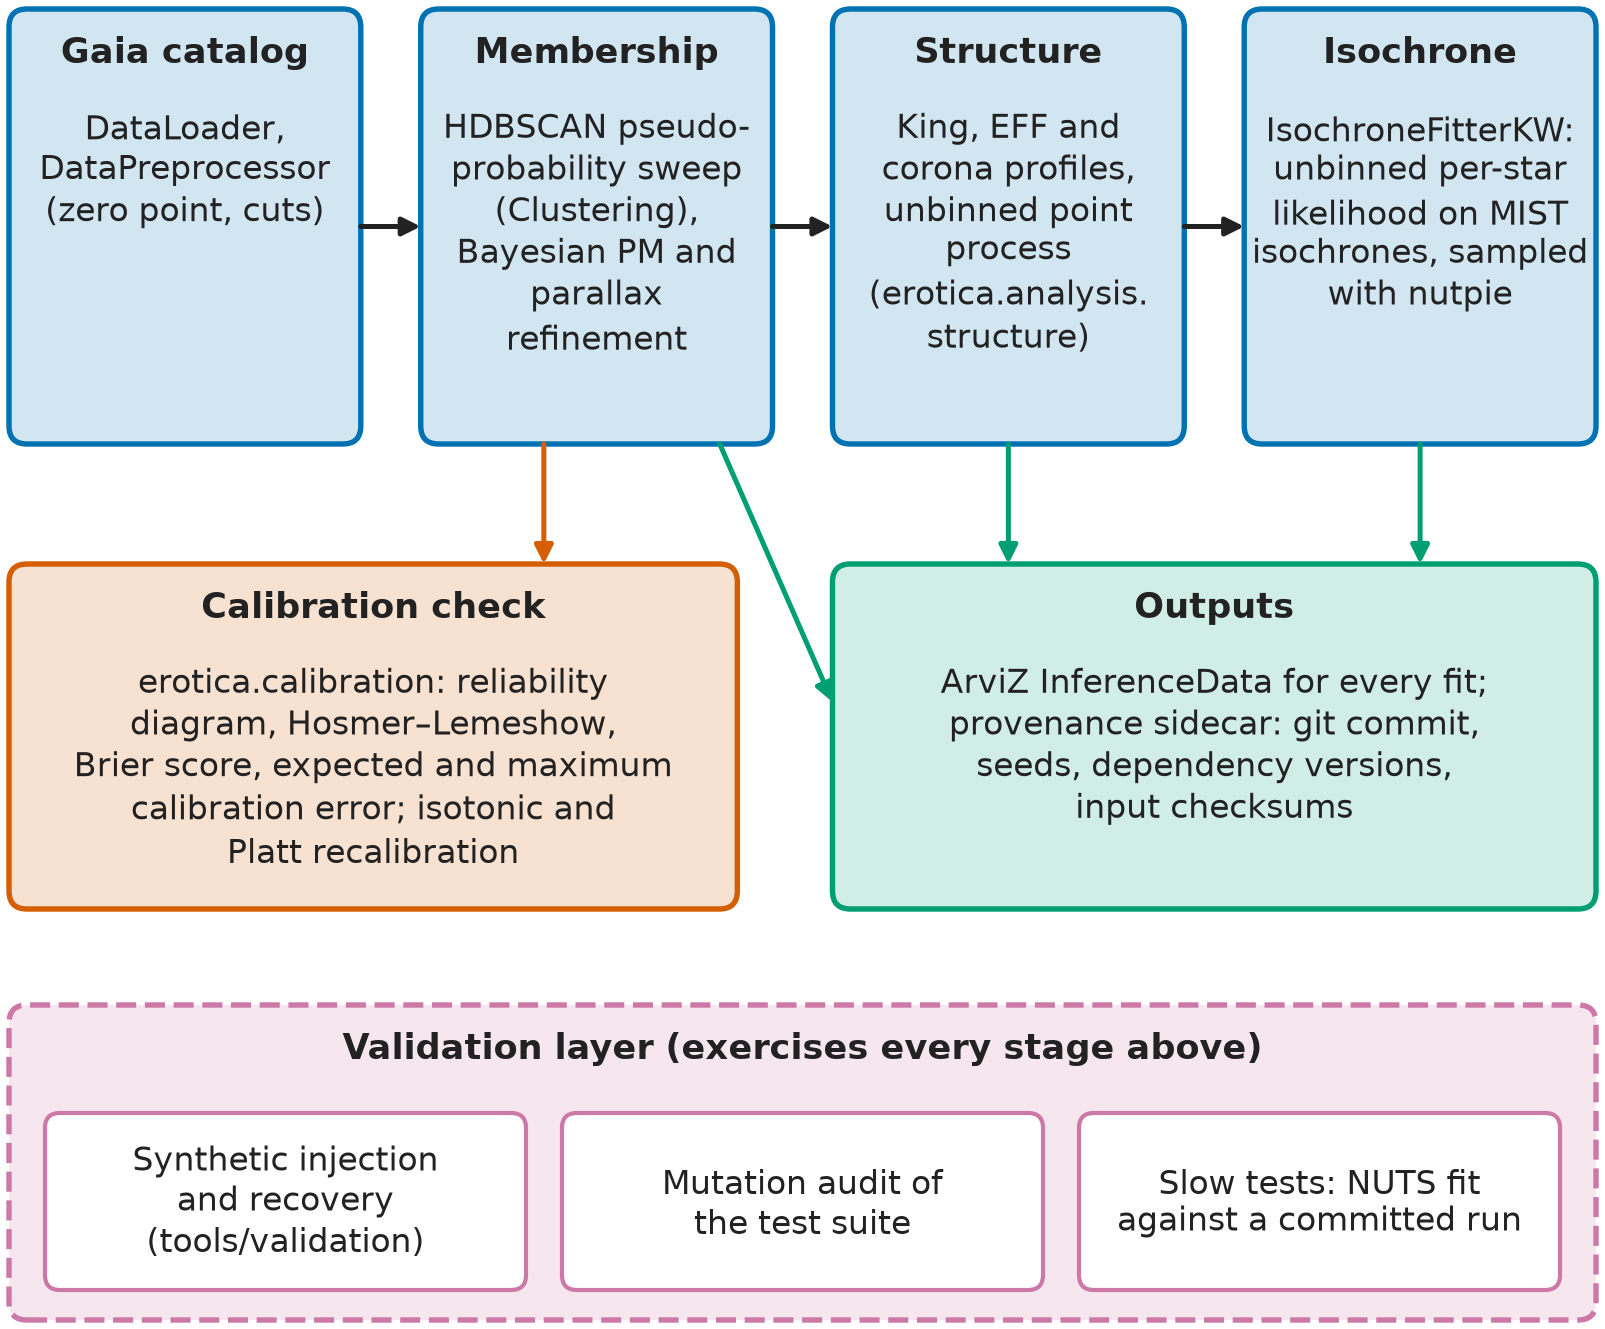
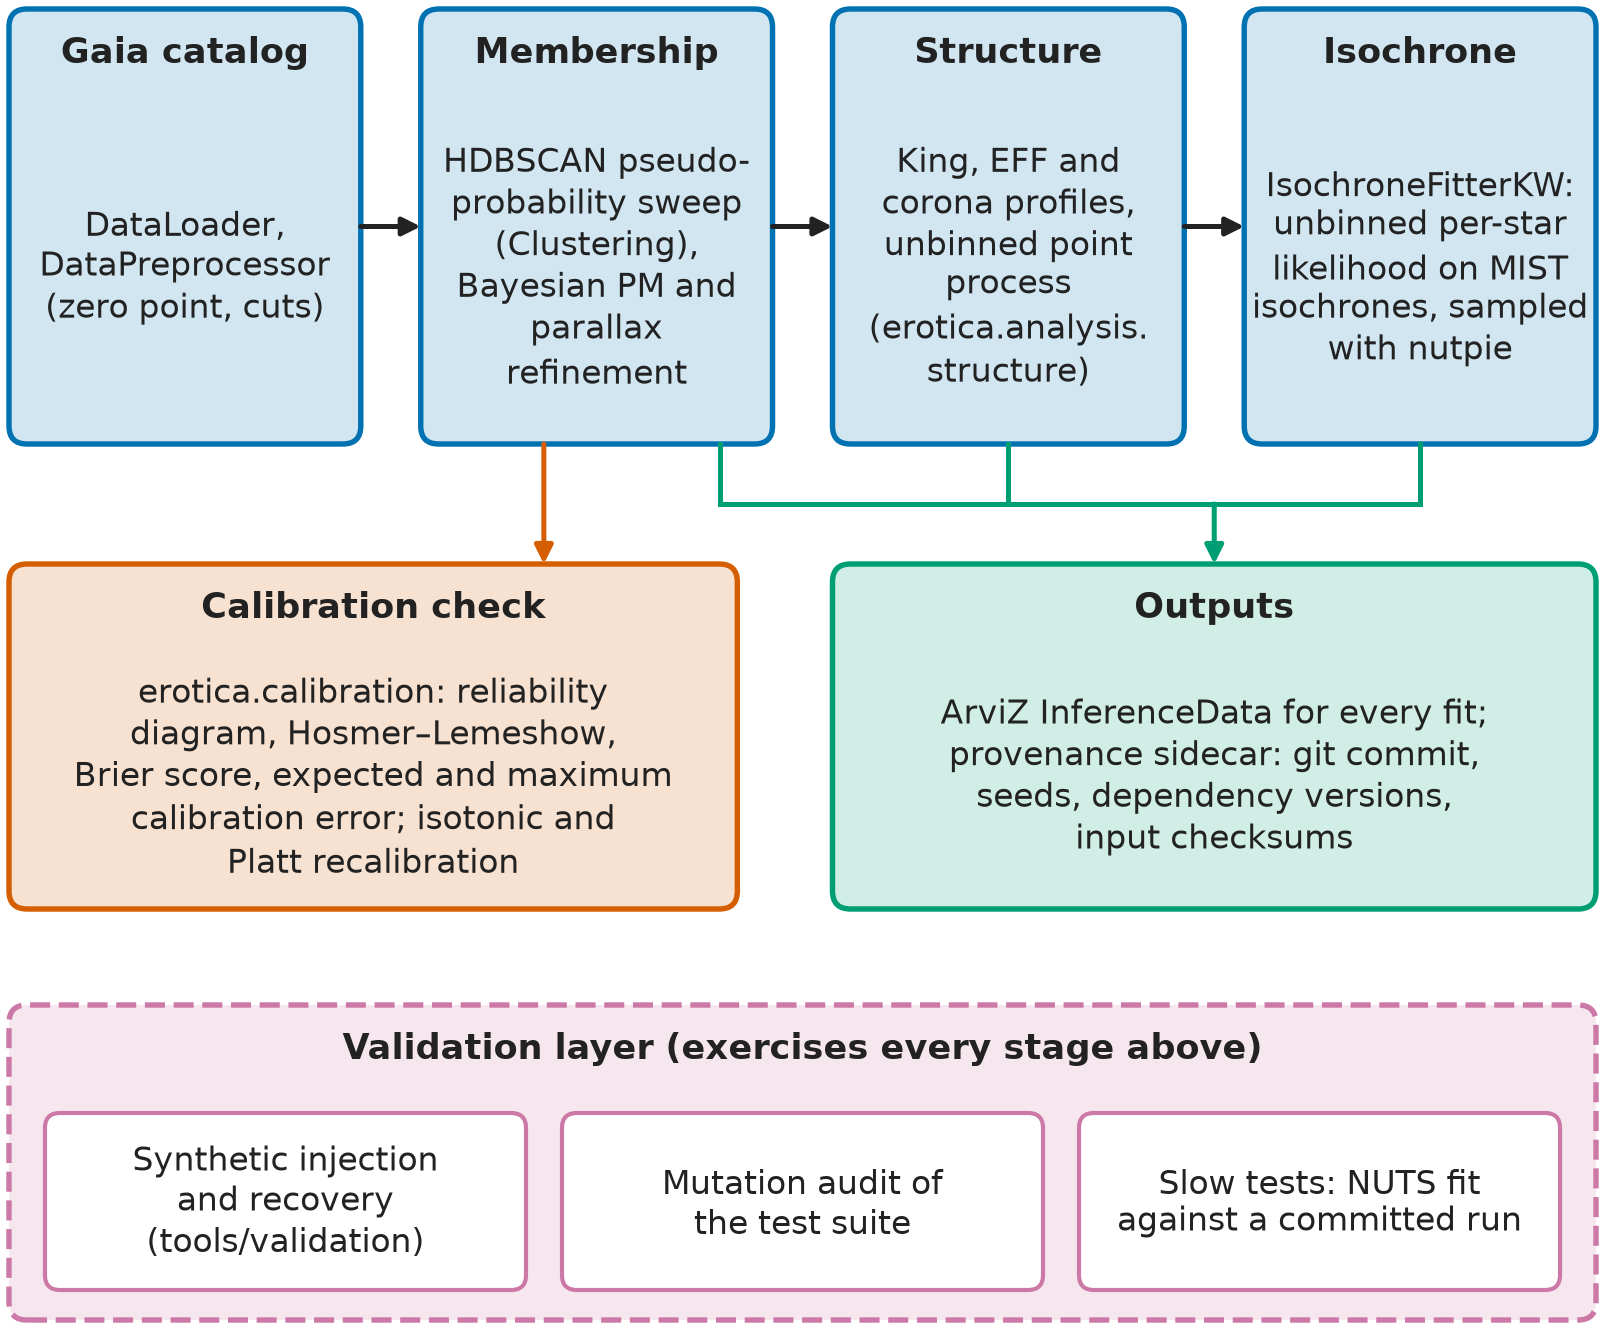
Limpiezas menores: figura del pipeline JOSS, README (Tests), autores en docs/conf.py

diff --git a/paper/figures/make_pipeline.py b/paper/figures/make_pipeline.py
@@ -75,12 +75,14 @@ def box(
         color=INK,
     )
     if body:
+        # Centred in the space under the title, so a short body does not leave a blank bottom.
+        top = y + h - 0.33 + title_dy
         ax.text(
             x + w / 2,
-            y + h - 0.33 + title_dy,
+            (top + y) / 2 + 0.03,
             body,
             ha="center",
-            va="top",
+            va="center",
             fontsize=FONT_PT,
             color=INK,
             linespacing=1.25,
@@ -186,15 +188,18 @@ def build() -> tuple[plt.Figure, plt.Axes]:
         (col_x[1] + 0.35 * col_w, row2_y + row2_h),
         color=ORANGE,
     )
+    # One bus into Outputs: the three stages that feed it drop onto a shared horizontal line,
+    # and a single arrow leaves the bus for the box (no diagonal, nothing cuts between boxes).
+    y_bus = (row1_y + row2_y + row2_h) / 2
+    x_mem = col_x[1] + 0.85 * col_w
+    x_iso = col_x[3] + col_w / 2
+    x_out = out_x + out_w / 2
+    kw = {"color": GREEN, "linewidth": 1.2, "solid_capstyle": "projecting"}
+    ax.plot([x_mem, x_mem], [row1_y, y_bus], **kw)
+    ax.plot([x_mem, x_iso], [y_bus, y_bus], **kw)
     for c in (col_x[2], col_x[3]):
-        arrow(ax, (c + col_w / 2, row1_y), (c + col_w / 2, row2_y + row2_h), color=GREEN)
-    arrow(
-        ax,
-        (col_x[1] + 0.85 * col_w, row1_y),
-        (out_x, row2_y + 0.6 * row2_h),
-        color=GREEN,
-        rad=0.0,
-    )
+        ax.plot([c + col_w / 2] * 2, [row1_y, y_bus], **kw)
+    arrow(ax, (x_out, y_bus), (x_out, row2_y + row2_h), color=GREEN)
 
     # Row 3: the validation layer, as a dashed band that exercises everything above it.
     band_h, band_y = 1.05, m

diff --git a/docs/conf.py b/docs/conf.py
@@ -4,8 +4,8 @@ from importlib.metadata import version as _pkg_version
 
 # -- Project information -----------------------------------------------------
 project = "EROTICA"
-author = "EROTICA developers"
-copyright = "2026, EROTICA developers"
+author = "Lucas Pulgar-Escobar, Pierluigi Cerulo"
+copyright = "2026, Lucas Pulgar-Escobar, Pierluigi Cerulo"
 try:
     release = _pkg_version("erotica")  # distribution name in pyproject
 except Exception:

diff --git a/README.md b/README.md
@@ -263,8 +263,9 @@ a day; keep the three in step on every release.
 **Development status**: v0.3.0 is the version the JOSS submission will describe. The API is not yet
 frozen; see the roadmap below.
 
-**Tests**: the full suite runs in CI on Python 3.14, plus a job that installs the `bayes`
-extra so the sampler paths actually execute, and a docs job that builds the site. Audited by
+**Tests**: the full suite runs in CI on Python 3.14, plus a job that adds the `bayes` and `gp`
+extras (the alternative NUTS backends and the CPU torch wheel for the Gaussian-process sampler
+tests, which skip in the base job) and reports coverage, and a docs job that builds the site. Audited by
 mutation rather than by coverage. (No test count is quoted here on purpose — a count in prose is
 stale by the next commit. Run `pytest --collect-only -q` for the current figure; `paper/paper.md`
 quotes one pinned to a release, which is fixed and citable.)
